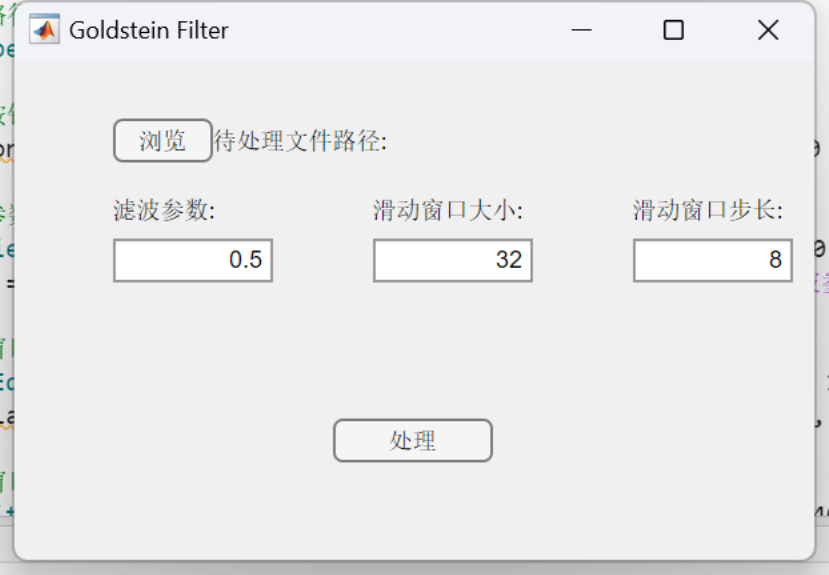
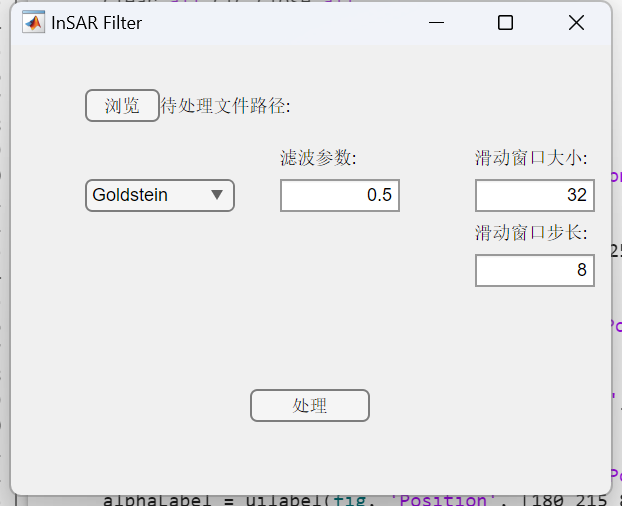
修改文档

diff --git a/filter_MATLAB/main.m b/filter_MATLAB/main.m
@@ -1,6 +1,8 @@
 function main()
 
-    clear all;clc;close all;
+    close all;
+    clear all;
+    clc;
 
     % 图像长宽
     width = 2551;
@@ -110,13 +112,13 @@ function main()
             xlabel('Amplitude');
             ylabel('Probability');
             xlim([-2.5 2.5]);
-            saveas(gcf, fullfile(outputPath, 'OriginalHistogram'), 'tiffn');
+            saveas(gcf, fullfile(outputPath, 'OriginalAmplitudeHistogram'), 'tiffn');
         
             %显示原图像的（伪）相干图
             coh = est_cc(data, 5);
             figure, imagesc(coh); colormap('jet'); colorbar;
             title('Coherence of Original Image');
-            saveas(gcf, fullfile(outputPath, 'OriginalcCoh'), 'tiffn');
+            saveas(gcf, fullfile(outputPath, 'OriginalCoh'), 'tiffn');
         
             %显示原图的相位标准差
             ps_std = phase_std(data, 5);
@@ -133,13 +135,13 @@ function main()
             saveas(gcf, fullfile(outputPath, 'OriginalPhaseStdHistogram'), 'tiffn');
 
             %显示原图的幅值标准差
-            amplitude_std = amplitude_std(data, 5);
-            figure, imagesc(amplitude_std); colormap('jet'); colorbar;
+            amplitude_std_original = amplitude_std(data, 5);
+            figure, imagesc(amplitude_std_original); colormap('jet'); colorbar;
             title('Original Amplitude Standard Deviation');
             saveas(gcf, fullfile(outputPath, 'OriginalAmplitudeStd'), 'tiffn');
 
             %显示原图像幅值标准差的直方图
-            figure, histogram(amplitude_std, 'BinEdges', 0:0.005:3.5, 'Normalization', 'probability');
+            figure, histogram(amplitude_std_original, 'BinEdges', 0:0.005:3.5, 'Normalization', 'probability');
             title('Histogram of Original Amplitude Standard Deviation');
             xlabel('Amplitude Standard Deviation');
             ylabel('Probability');
@@ -175,7 +177,7 @@ function main()
             xlabel('Amplitude');
             ylabel('Probability');
             xlim([-2.5 2.5]);
-            saveas(gcf, fullfile(outputPath, 'FilteredHistogram'), 'tiffn');
+            saveas(gcf, fullfile(outputPath, 'FilteredAmplitudeHistogram'), 'tiffn');
         
             %显示滤波后图像的（伪）相干性
             coh_filetered = est_cc(filteredData, 5);
@@ -215,7 +217,7 @@ function main()
         
             % 计算滤波前后幅值的差值并显示
             phase_diff=phase_out-phase;
-            figure, imagesc(pahse_diff); colormap('jet'); colorbar;
+            figure, imagesc(phase_diff); colormap('jet'); colorbar;
             title('Phase Difference');
             saveas(gcf, fullfile(outputPath, 'PhaseDiff'),  'tiffn');
 

diff --git a/filter_MATLAB/README.md b/filter_MATLAB/README.md
@@ -1,47 +1,69 @@
-# Goldstein滤波算法及其MATLAB实现
+# Goldstein 滤波算法及其 MATLAB 实现
 
 ## 文件说明
 
-`main.m`：程序的主函数，负责调用其他函数并绘制GUI界面；
+`main.m`：程序的主函数，负责调用其他函数并绘制 GUI 界面；
 
-`goldstein_filter.m`：滤波器函数，使用`goldstein_filter(cpx, alpha, window_size, step_size)`来调用，其中`cpx`代表待处理的干涉图复数矩阵，`alpha`代表滤波参数，`window_size`代表窗口大小，`step_size`代表窗口滑动的步长；
+`goldstein_filter.m`：Goldstein 滤波器函数，使用`goldstein_filter(cpx, alpha, window_size, step_size)`来调用，其中`cpx`代表待处理的干涉图复数矩阵，`alpha`代表滤波参数，`window_size`代表窗口大小，`step_size`代表窗口滑动的步长；
+
+`zhao_filter.m`：Zhao 滤波器函数；
+
+`yu_filter.m`：Yu 滤波器函数；
 
 `phase2raster.m`：将干涉图输出为`tif`、`jpeg`、`bmp`等格式的栅格图像（已在主函数中弃用）；
 
 `read_int.m`：将`int`格式的干涉图数据转换为矩阵；
 
+`gen_data.m`：用于进行滤波实验，记录滤波数据以分析的脚本函数；
+
 `write_int.m`：将矩阵保存为`int`形式的干涉图数据；
 
 `est_cc`：估计干涉图伪相干性的函数；
+
+`gen_coh.m`：计算小窗内图像的伪相干系数，从而进行 Zhao 滤波；
+
+`gen_alpha.m`：计算自适应滤波参数，用于 Yu 滤波；
 
 `phase_std`：计算干涉图相位标准差的函数；
 
 `data`：放置本工程所需要的相关数据；
 
+`boxcar_filter.m`：进行均值滤波；
+
+`amplitude_std.m`：计算小窗内复数矩阵的幅值标准差；
+
 `data/original`：放置未经滤波的原图像数据，包含`original.int`、`original.int.tif`和`original.int.xml`
 
-`data/filter_fxx_wyy_szz`：放置滤波后的图像数据，`xx`、`yy`、`zz`分别表示滤波参数、窗口大小、窗口滑动步长，如`filter_f0.5_w32_s8`代表滤波参数为0.5、窗口大小为32、窗口滑动步长为8；
+`data/Name_fxx_wyy_szz`：放置滤波后的图像数据，`Name`、`xx`、`yy`、`zz`分别表示滤波方法、滤波参数、窗口大小、窗口滑动步长，如`Goldestein_f0.5_w32_s8`代表 Goldstein 滤波参数为 0.5、窗口大小为 32、窗口滑动步长为 8；
 
 `img`：放置`README`文档的图片。
 
+## 代码&数据
+
+查看完整的 MATLAB 和 Python 代码请访问[github.com/guanshuao/InSARFilter](github.com/guanshuao/InSARFilter)
+
+本报告使用 LaTeX 编写，查看 LaTeX 源代码请访问[overleaf.com/read/gjfqbtycgysb](overleaf.com/read/gjfqbtycgysb)
+
+实验数据请访问[百度网盘](https://pan.baidu.com/s/1OVq1j1YSSBMKiSn8v9iL_w?pwd=1234)
+
 ## 使用指南
 
-1. 运行`main.m`脚本，出现如下界面
+1. 运行`main.m`脚本，出现如下界面；
 
 ![pic1](./img/pic1.png)
 
 ![pic2](./img/pic2.png)
 
-2. 点击`浏览`，选择待滤波的`int`文件，此处我们选择`original.int`
+2. 点击`浏览`，选择待滤波的`int`文件，此处我们选择`original.int`；
 
 ![pic3](./img/pic3.png)
 
 ![pic4](./img/pic4.png)
 
-3. 设置三个参数完毕后，点击`处理`，稍等片刻（等待时间取决于三个滤波参数的选取）
+3. 选择滤波器种类，设置滤波参数，确认后点击`处理`进行滤波，稍等片刻；
 
 ![pic5](./img/pic5.png)
 
-4. 滤波处理完成后会提示`处理完成`，同时会显示若干幅图像（如下图）；同时，`/data`文件夹下会出现一个名为`filter_f0.5_w32_s8`的文件夹，用以存储滤波后的数据
+4. 滤波处理完成后会提示`处理完成`，同时会显示若干幅图像（如下图）；同时，`/data`文件夹下会出现一个名为`Goldstein_f0.5_w32_s8`的文件夹，用以存储滤波后的数据
 
 ![pic6](./img/pic6.png)
